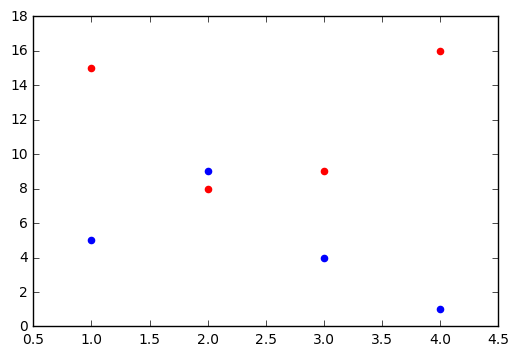
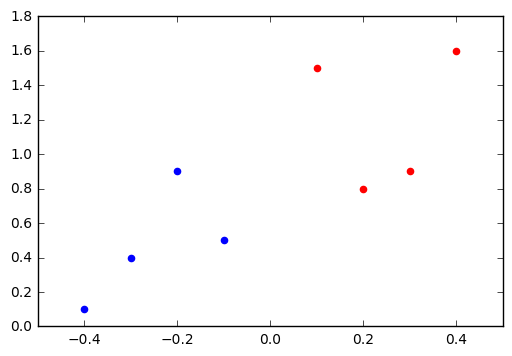
Included contourf plot in perceptron post

diff --git a/_posts/2017-03-08-perceptrons.md b/_posts/2017-03-08-perceptrons.md
@@ -2,7 +2,7 @@ A perceptron classifier is a simple model of a neuron. This machine learning alg
 
 We can compare the way it works just as a *simple* biological neuron: the dentrites recieves signals and the cell body process them. After that processing, the axon's neuron will send signals out to other neurons.
 
-Now you will think, how does the classifier makes this processing?
+Now you will think, how does the classifier makes the processing?
 
 Given an input element, each feature/column is multiplied by a *weight* value that is assigned to this particular feature. For instance, if the perceptron has a total of five inputs, then five weights will be adjusted for each of these inputs (or features).
 
@@ -10,7 +10,7 @@ All those signals, after multiplied by its weights, will be summed up to a singl
 
 Finally, the result will turn into the output signal. Depending on the sum of the previous calculations an *activation function* (or *transfer function*) will classify the result to the category predicted. 
 
-We can think about perceptrons as the most basic form of a neural network. This following illustration can help better to understand the process:
+We can think about perceptrons as the most basic form of a neural network. The following illustration helps to better to understand the process:
 
 ![alt Perceptron]({{ site.url }}/assets/images/perceptrons_post.png)
 
@@ -26,14 +26,14 @@ The most tricky part of a perceptron is how to calculate the vector of weights. 
 
 |   | col1 | col2 | target |
 |:-:|:----:|:----:|:------:|
-| 0 | 1    | 15   | -1     |
-| 1 | 2    | 8    | -1     |
-| 2 | 3    | 9    | -1     |
-| 3 | 4    | 16   | -1     |
-| 4 | 4    | 1    | 1      |
-| 5 | 3    | 4    | 1      |
-| 6 | 2    | 9    | 1      |
-| 7 | 1    | 5    | 1      |
+| 0 | .1   | 1.5  | -1     |
+| 1 | .2   | .8   | -1     |
+| 2 | .3   | .9   | -1     |
+| 3 | .4   | 1.6  | -1     |
+| 4 | -.4  | .1   | 1      |
+| 5 | -.3  | .4   | 1      |
+| 6 | -.2  | .9   | 1      |
+| 7 | -.1  | .5   | 1      |
 
 
 The following code creates our *fake* training test data with pandas based on the previous table.
@@ -47,9 +47,9 @@ import matplotlib.cm as cm
 import pandas as pd
 
 d = {
-  'col1': [1,2,3,4,4,3,2,1],
-  'col2': [15,8,9,16,1,4,9,5],
-  'target': np.array([-1]*4+[1]*4)
+  'col1': [.1,.2,.3,.4,-.4,-.3,-.2,-.1],
+  'col2': [1.5,.8,.9,1.6,.1,.4,.9,.5],
+  'target': [-1]*4+[1]*4
 }
 
 df = pd.DataFrame(data=d)
@@ -74,33 +74,64 @@ def perceptron_train(max_iter = 10, step = 0.1):
     col_names = df.columns.values[:-1]
     w = dict((name,0) for name in col_names)
     b = 0
-    step = 0.1
     for i in range(max_iter):
         for index, row in df.iterrows():
-            a = np.sum([row[col] * w[col] + b for col in col_names])
-            if row['target'] * a <= 0: # is the prediction good?
+            a = np.sum([row[col] * w[col] for col in col_names]) + b
+            if row['target'] * a <= 0:
+                # wrong prediciton
                 b += row['target'] * step
-                for key in w.keys():
-                    w[key] += row['target'] * row[key] * step
+                for col in col_names:
+                    w[col] += row['target'] * row[col] * step
     return w, b
 
 weights, bias = perceptron_train()
-
+print(weights, bias)
+# weights: {'col2': -0.2, 'col1': -0.43}, bias: 0.1
 ```
 
-This training algorithm is considered **online**: instead of considering the entire dataset, it looks example by example. After trained our weights and bias, we can test our perceptron and make predictions:
+Perceptron training algorithm is considered **online**, which means that instead of considering and using the entire dataset as a whole, it looks example by example. Once finalized the training of the weights and the bias, the perceptron will be able to make predictions:
 
 ```python
 def predict(weights, bias, row):
-    activation = 0
-    for key in weights.keys():
-        activation += weights[key] * row[key] + bias
+    activation = np.sum([weights[key] * row[key] + bias for key in weights.keys()])
     return np.sign(activation)
-``` 
+```
+
+# Test our perceptron
+
+A contour plot is a nice way to visually represent the boundary of a perceptron. The following code will create the array Z with the predictions of all possible points around our dataset. Calling the function *contourf* will fill the areas between the values using constant colors corresponding to the current figure's colormap.
+
+```python
+h = .1
+
+# create a meshgrid
+x_min, x_max = -0.6, 0.6
+y_min, y_max = 0, 1.8
+xx, yy = np.meshgrid(np.arange(x_min, x_max, h), np.arange(y_min, y_max, h))
+
+# np.c_ returns a new array with the combination of the ish elem from xx with
+# the ish elem of yy
+fake = pd.DataFrame(np.c_[xx.ravel(), yy.ravel()], columns=('col1', 'col2'))
+Z = np.array([predict(weights, bias, row) for key, row in fake.iterrows()])
+# Reshape from array to a matrix of colors
+Z = Z.reshape(xx.shape)
+fig, ax = plt.subplots()
+# contourf(matrix of xs, matrix of ys, and matrix of colors)
+ax.contourf(xx, yy, Z)
+
+# Include the training points
+# pos_mask = df['target'] == 1
+# neg_mask = df['target'] == -1
+ax.scatter(x=df[neg_mask]['col1'], y=df[neg_mask]['col2'], color='r')
+ax.scatter(x=df[pos_mask]['col1'], y=df[pos_mask]['col2'], color='b')
+ax.set_title('Perceptron')
+```
+
+![alt Perceptron Test]({{ site.url }}/assets/images/perceptrons_solution_post.png)
 
 # Issues and notes about perceptrons
 
-The following list are notes I have been taken during the research and study of perceptrons:
+Notes I have been taken during the research and study of perceptrons - recheck when have some time:
 
 - The perceptron is a linear model that cannot solve the [XOR problem](http://toritris.weebly.com/perceptron-5-xor-how--why-neurons-work-together.html).
 
